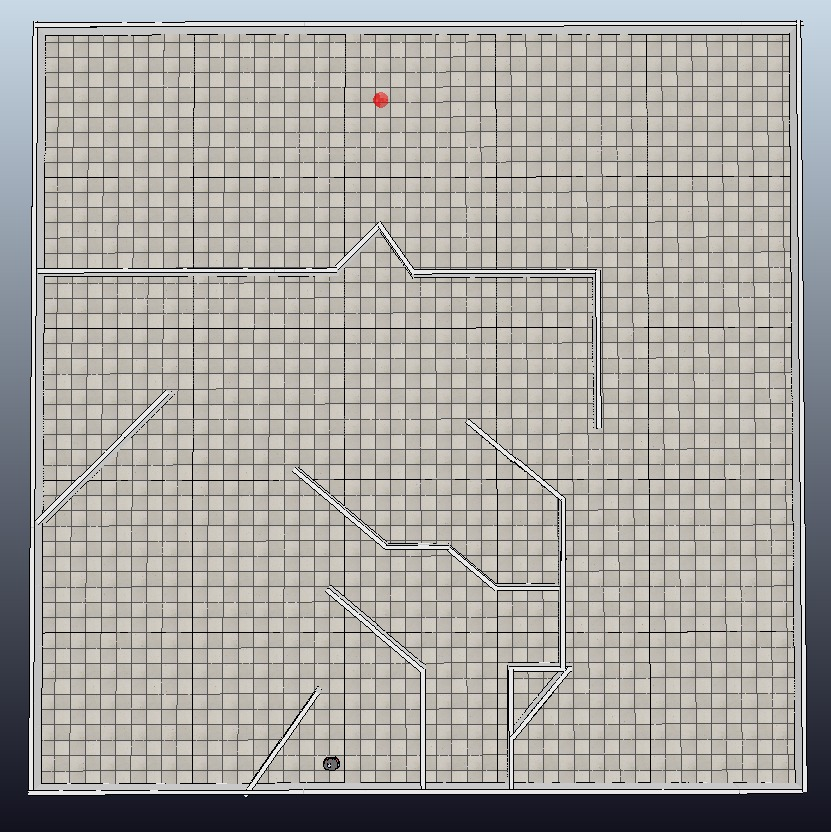
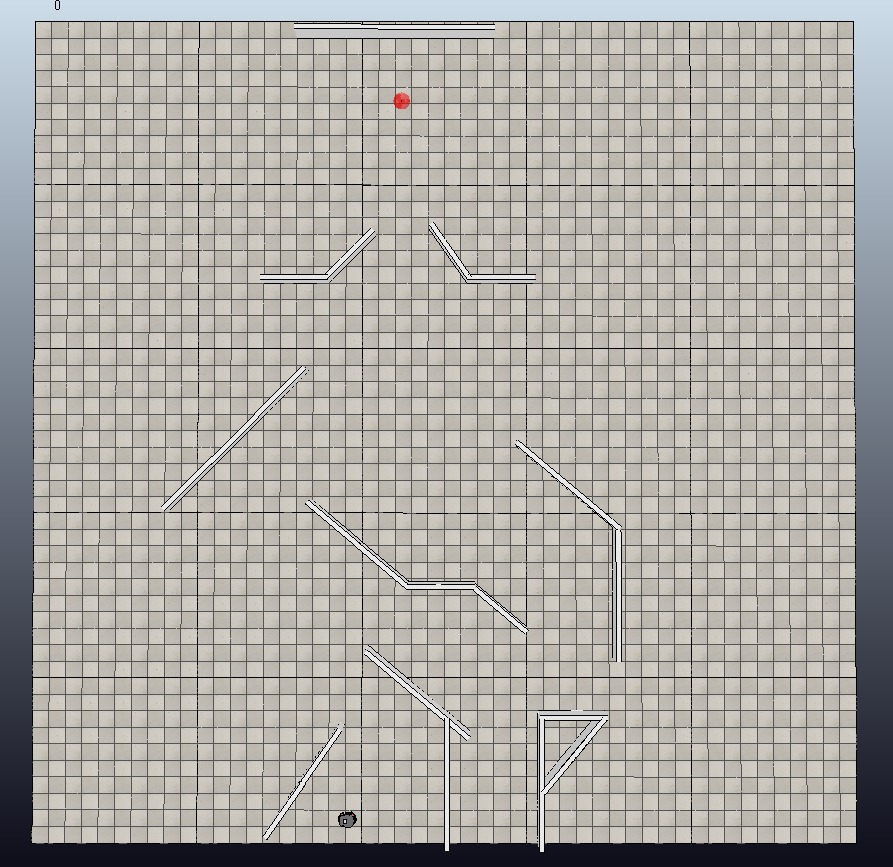
bugFix Scene3 correct

diff --git a/v1/vision.py b/v1/vision.py
@@ -28,17 +28,13 @@ def getImageWalls(img):
     mask_wall = cv.inRange(img, lower_color_wall, upper_color_wall)
     lines_wall = cv.HoughLinesP(mask_wall, 1, np.pi / 180, 3, np.array([]), 100, 50)
 
-    cv.imshow('mask_wall',cv.resize(mask_wall, dsize=None, fx=0.7, fy=0.7)) 
-
     lower_color_wall = np.array([210,210,210])
     upper_color_wall = np.array([255,255,255])
     mask_write = cv.inRange(img, lower_color_wall, upper_color_wall)
     lines_write = cv.HoughLinesP(mask_write, 1, np.pi / 180, 3, np.array([]), 30, 30)
 
-    cv.imshow('mask_write',cv.resize(mask_write, dsize=None, fx=0.7, fy=0.7)) 
-
     if lines_wall is not None and lines_write is not None:
-        lines = np.append( lines_wall, lines_black, axis=0 )
+        lines = np.append( lines_wall, lines_write, axis=0 )
     elif lines_wall is not None:
         lines = lines_wall
     else:
@@ -49,11 +45,9 @@ def getImageWalls(img):
     mask_black = cv.inRange(img, lower_color_black, upper_color_black)
     lines_black = cv.HoughLinesP(mask_black, 1, np.pi / 180, 7, np.array([]), 40, 27)
 
-    cv.imshow('mask_black',cv.resize(mask_black, dsize=None, fx=0.7, fy=0.7)) 
-
-    if lines.any():
+    if lines.any() and lines_black is not None:
         lines = np.append( lines, lines_black, axis=0 )
-    else:
+    elif lines_black is not None:
         lines = lines_black
 
     for line in lines:
@@ -76,7 +70,7 @@ def getCorners(img):
 
 
 
-IMAGE_NAME = 'image2.jpeg'
+IMAGE_NAME = 'image3.jpeg'
 img = cv.imread(IMAGE_NAME, cv.IMREAD_COLOR)
 
 lines, lines_image = getImageWalls(img)
